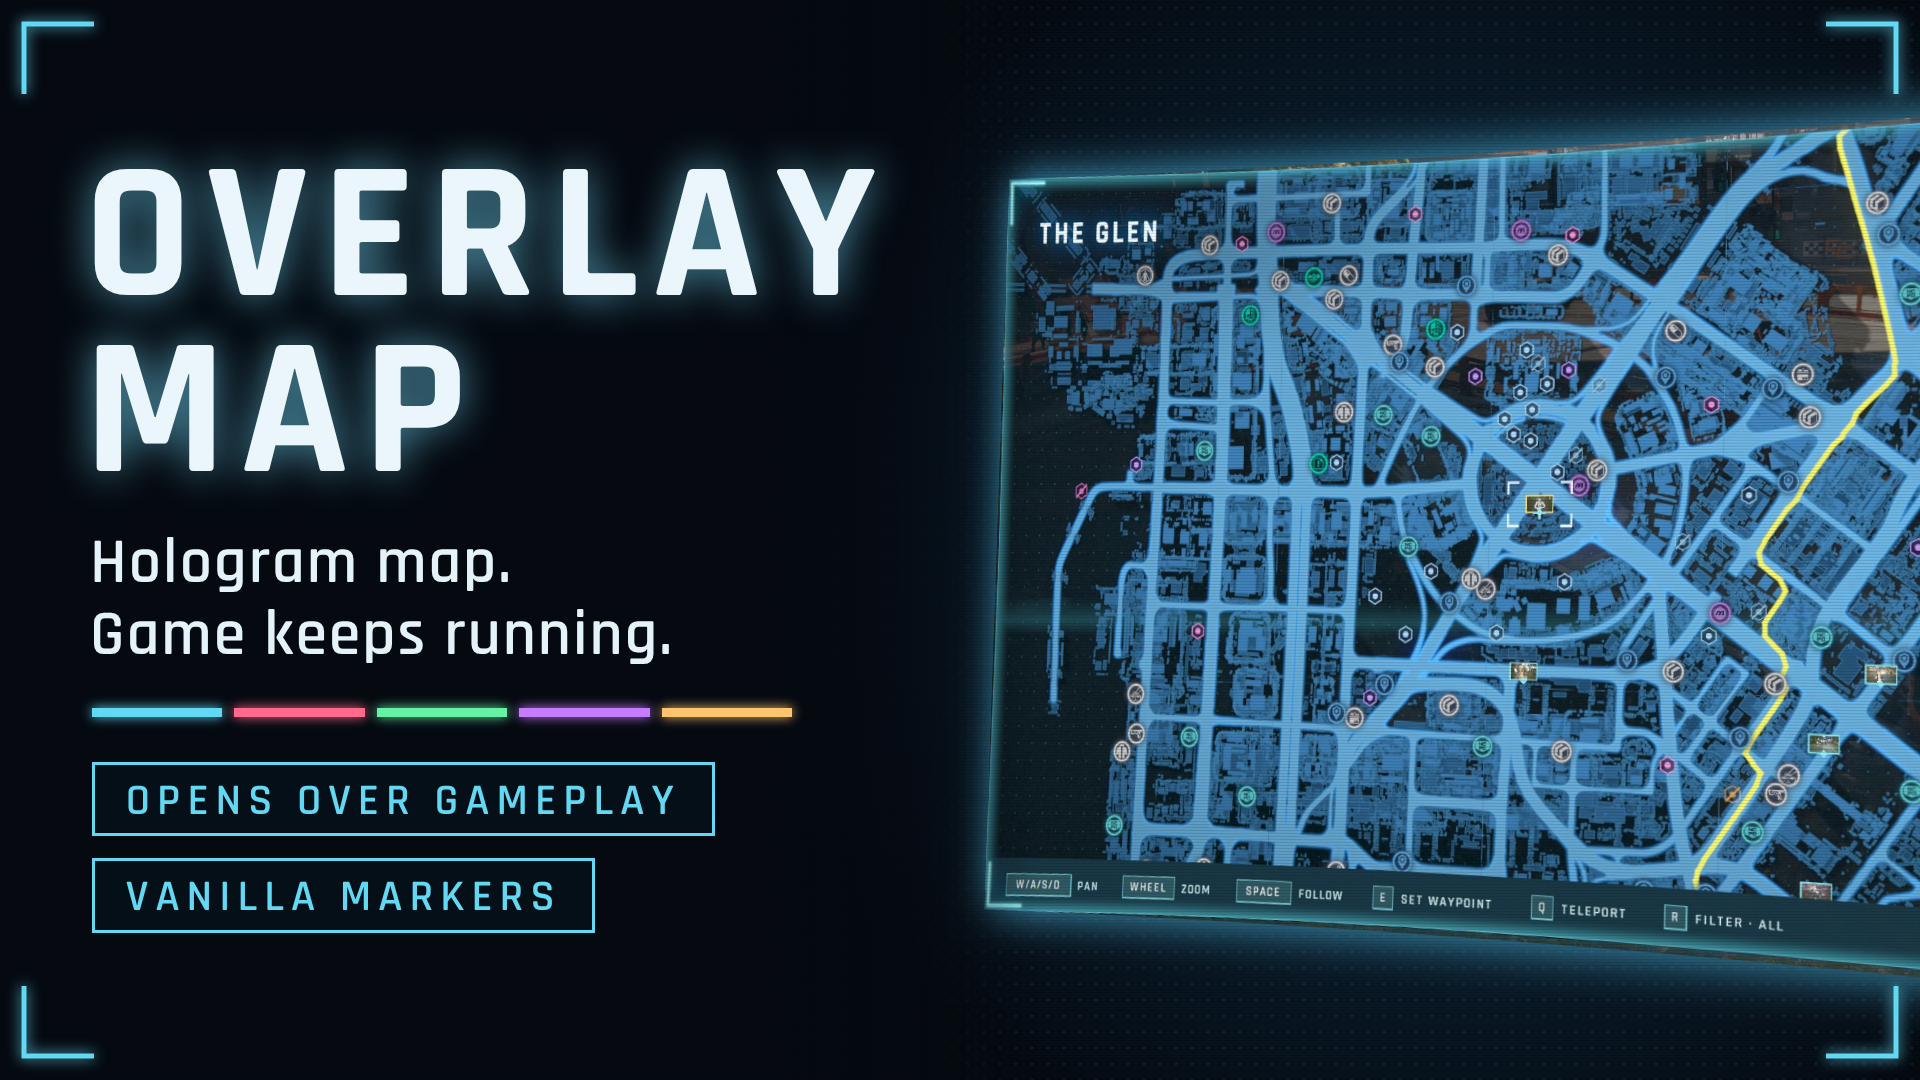
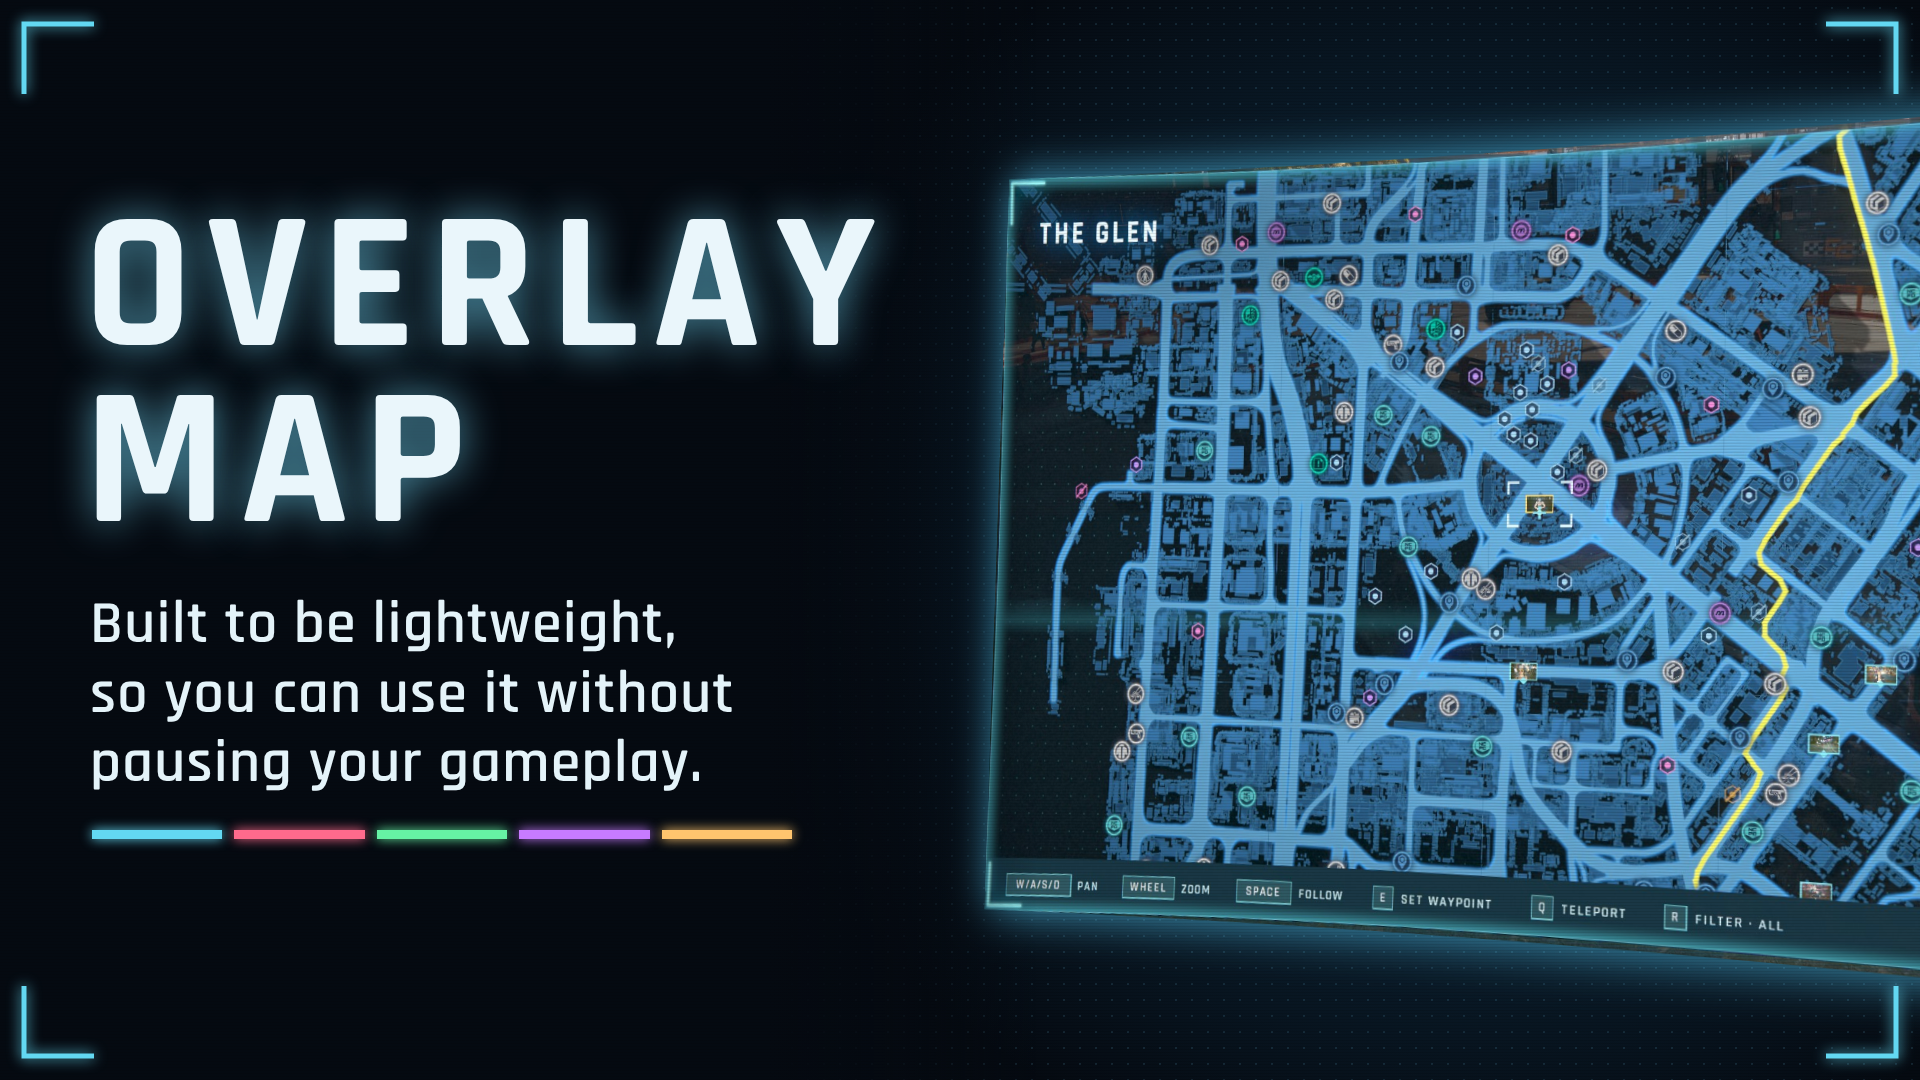
Compile-check against game 2.31; note 2.31 in requirements
tools/check.sh takes FINAL_REDSCRIPTS to compile against another game
version's vanilla scripts, and tools/compat/fetch-final-redscripts.sh
fetches that file from Steam. With 2.31's scripts and 2.31-era redscript
0.5.31, Codeware 1.19.0 and Mod Settings 0.2.21, OverlayMap compiles with
no errors or warnings. README and Nexus description say 2.31 should work
(compile-checked, not play-tested).

Also: thumbnail uses the hero's tagline without tags, and the Nexus
description gains the preview GIF.

Changed region(s): [[0.0312, 0.1222, 0.4688, 0.8556]]

diff --git a/docs/banners/make.py b/docs/banners/make.py
@@ -223,12 +223,9 @@ def callouts():
 
 
 def thumb():
-    """The hero for the Nexus thumbnail: the card shows it ~430 px wide (x0.22), so the text is 1.5-2.5x the hero's."""
+    """The hero for the Nexus thumbnail: the card shows it ~430 px wide (x0.22), so the text is ~2x the hero's."""
     w, h = 1920, 1080
     c = THEMES[0][1]
-    chips = ["OPENS OVER GAMEPLAY", "VANILLA MARKERS"]
-    chip_html = "".join(f'<div class="chip" style="font-size:44px;border-width:3px;margin:0 0 22px 0;--c:{c}">{t}</div><br>'
-                        for t in chips)
     s = .84
     body = (f'<div class="dots"></div>'
             f'<div class="abs" style="left:720px;top:-120px;width:1500px;height:1320px;'
@@ -239,12 +236,11 @@ def thumb():
             f'{cut_panel(THEMES[0][2])}</div></div>'
             f'<div class="abs" style="inset:0;background:linear-gradient(90deg,#050a11 0,#050a11 40%,rgba(5,10,17,.75) 47%,transparent 54%)"></div>'
             f'<div class="scan" style="opacity:.45"></div>'
-            f'<div class="abs title" style="left:84px;top:150px;font-size:196px;line-height:.9;letter-spacing:.07em;'
+            f'<div class="abs title" style="left:84px;top:200px;font-size:196px;line-height:.9;letter-spacing:.07em;'
             f'text-shadow:0 0 40px rgba(120,225,255,.65)">OVERLAY<br>MAP</div>'
-            f'<div class="abs" style="left:90px;top:528px;font:600 64px/1.12 R;letter-spacing:.03em;color:#e4f3f9">'
-            f'Hologram map.<br>Game keeps running.</div>'
-            + spectrum(92, 708, 700, 9, 12) +
-            f'<div class="abs" style="left:92px;top:762px;width:820px">{chip_html}</div>'
+            f'<div class="abs" style="left:90px;top:590px;font:600 60px/1.16 R;letter-spacing:.02em;color:#e4f3f9">'
+            f'Built to be lightweight,<br>so you can use it without<br>pausing your gameplay.</div>'
+            + spectrum(92, 830, 700, 9, 12) +
             f'<svg class="abs" style="inset:0" width="{w}" height="{h}">{brackets(24, 24, w - 48, h - 48, c, 70, 5)}</svg>')
     page("5_thumb_1920x1080", w, h, body)
 

diff --git a/README.md b/README.md
@@ -10,7 +10,8 @@ Developers and mod authors: see [docs/DEVELOPING.md](docs/DEVELOPING.md) and [do
 ## Requirements
 
 - Cyberpunk 2077 **2.5**. The map is built from 2.5's game data; on another version the map shows a notice that some
-  places may not match.
+  places may not match. It should also work on 2.31 with that version's redscript, Codeware and Mod Settings: it
+  compiles cleanly against them, but hasn't been play-tested there.
 - [redscript](https://www.nexusmods.com/cyberpunk2077/mods/1511)
 - [Codeware](https://www.nexusmods.com/cyberpunk2077/mods/7780)
 - [RED4ext](https://www.nexusmods.com/cyberpunk2077/mods/2380) (Codeware needs it too)
